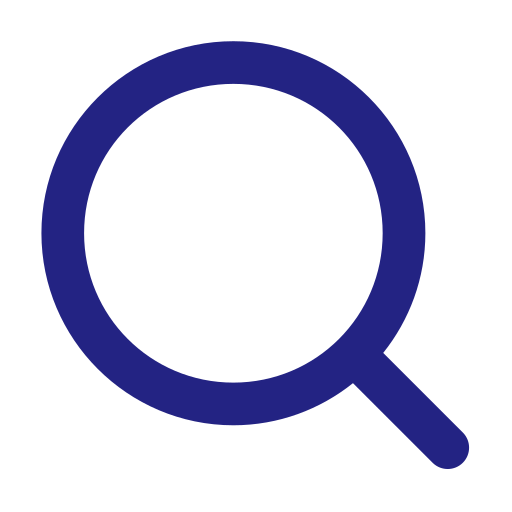
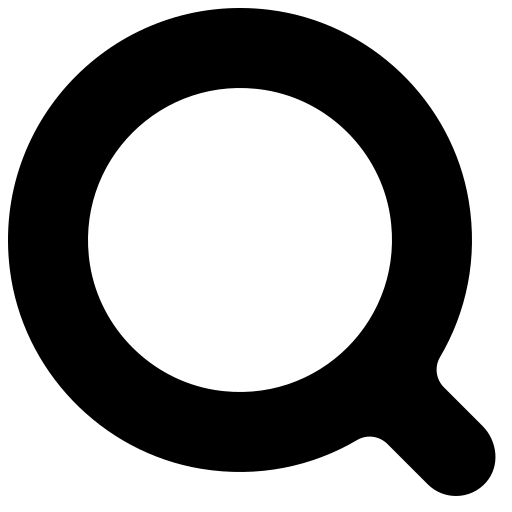
update searchbar

diff --git a/components/navbar.tsx b/components/navbar.tsx
@@ -27,19 +27,28 @@ export default function Navbar() {
             />
 
             <motion.div
-                animate = {{y: visible ? 0 : "-100%"}}
+                animate = {{y: visible ? 0 : "-150%"}}
                 transition={{ type: "spring", stiffness: 300, damping: 30 }}
-                className = "fixed z-5 top-0 pl-15 pr-15 flex items-center justify-between w-full h-22 bg-[#232383]">
+                className = "fixed z-5 top-3 pl-2 pr-5 inset-x-75 flex items-center justify-between h-13 bg-[#FFFFFFE6] rounded-full border-5 border-white shadow outline-1 outline-[#7a7a7a80]">
                 <button className ="left-0 flex flex-row gap-2 items-center justify-center">
-                    <img className = "w-8 h-8" src = {"/assets/celogo.png"}></img>
-                    <img className = "w-16 h-8" src = {"/assets/ceheader.png"}></img>
+                    <div
+                        className="bg-[#2794d8] w-8 h-8 [mask-image:url('/assets/celogo.png')] [mask-size:contain] [mask-repeat:no-repeat]"
+                    />
+                    <div
+                        className="bg-[#2794d8] w-16 h-8 [mask-image:url('/assets/ceheader.png')] [mask-size:contain] [mask-repeat:no-repeat"
+                    />
+
                 </button>
 
-                <div className = "flex pl-3 pr-3 items-center rounded-lg w-128 h-9 bg-white">
-                    <img className = "w-5 h-5" src = {"/assets/search.png"}></img>
+                <div className = "flex pl-3 pr-3 items-center rounded-full w-2/3 h-8 bg-[#FFFFFF]">
+                    <div
+                        className="bg-[#2794d8] w-5 h-5 [mask-image:url('/assets/search.png')] [mask-size:contain] [mask-repeat:no-repeat]"
+                    />
                 </div>
                 <button>
-                    <img className = "flex ml-18 w-7 h-7" src = {"/assets/hamburger.png"}></img>
+                    <div
+                        className="bg-[#2794d8] w-4 h-4 [mask-image:url('/assets/hamburger.png')] [mask-size:contain] [mask-repeat:no-repeat]"
+                    />
                 </button>
             </motion.div>
         </>

diff --git a/components/Home/herobanner.tsx b/components/Home/herobanner.tsx
@@ -2,7 +2,7 @@ import CarouselCard from "./CarouselCard.tsx"
 
 export default function HeroBanner() {
     return(
-        <div className = "flex flex-col items-center justify-center w-full h-350 bg-[#232383] pt-20 gap-4">
+        <div className = "flex flex-col items-center justify-center w-full h-360 bg-[#232383] pt-20 gap-4">
             {/*ART SPLASH*/}
             <div className = "flex flex-row items-center justify-center w-full gap-4 mt-6 mb-16 mr-20">
                 <div className = "flex flex-col items-center justify-center w-200 h-full">
@@ -16,7 +16,6 @@ export default function HeroBanner() {
                     </p>
                 </div>
                 <img src = {"/assets/herobannerart.png"} className = "w-110 h-150 -ml-40"/>
-
             </div>
 
 
